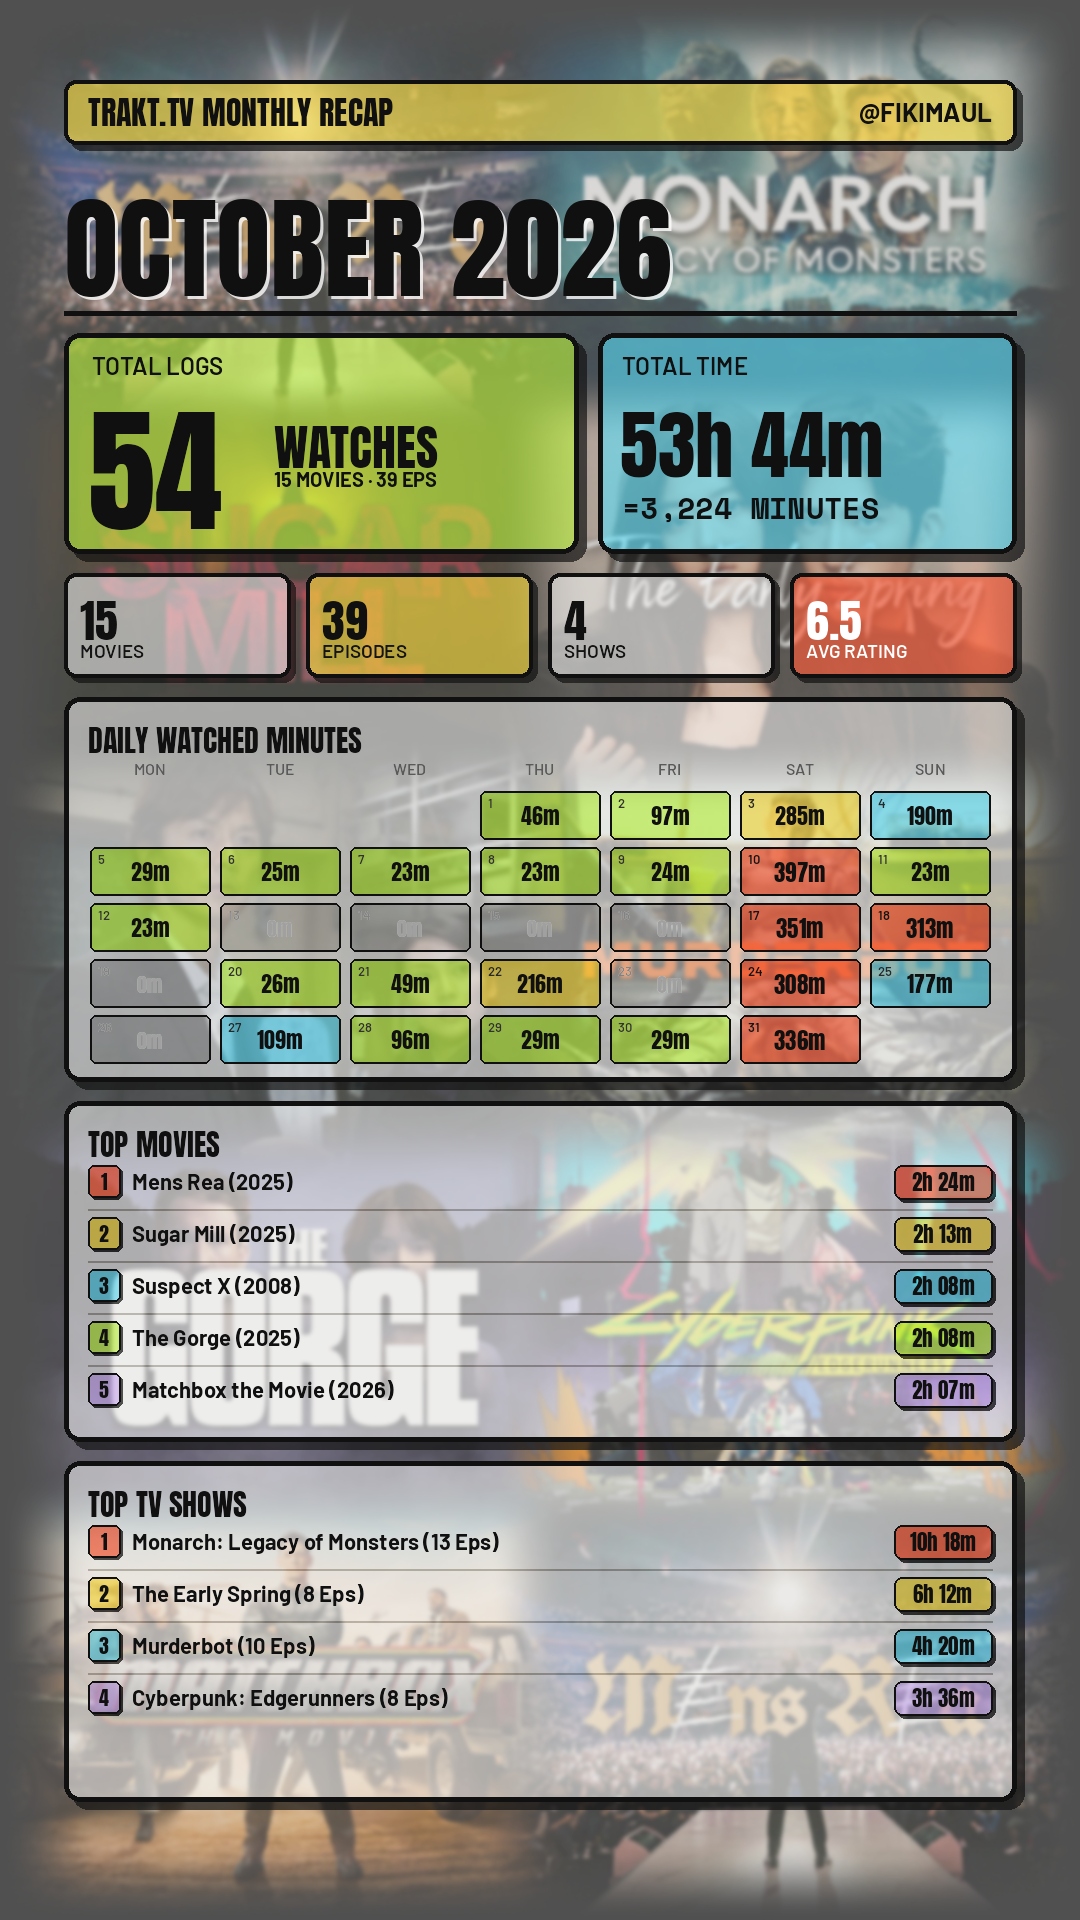
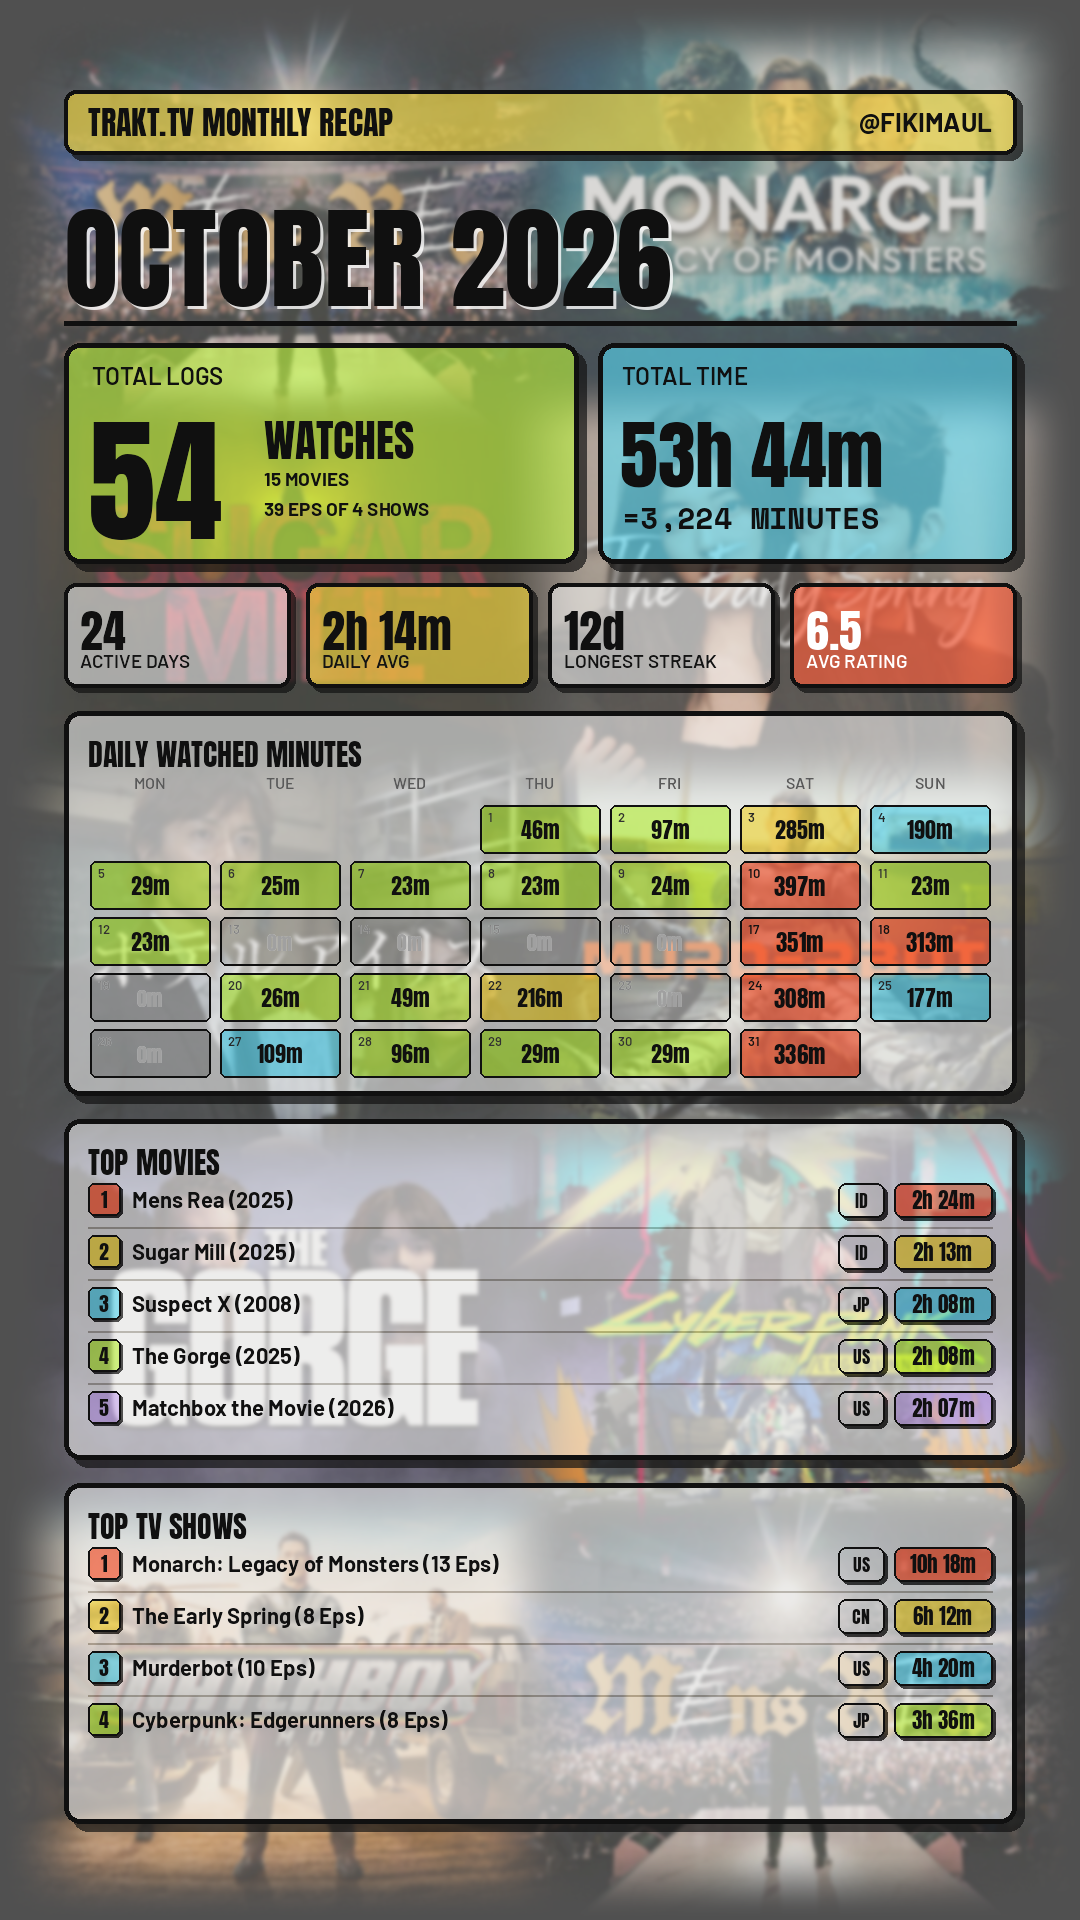
feat: balance layout margins, standardize rank colors, and add habit stats

Changed region(s): [[0.0611, 0.4062, 0.9472, 0.9062], [0.0611, 0.0312, 0.9472, 0.4062], [0.0611, 0.9375, 0.9472, 0.9688]]

diff --git a/recap.py b/recap.py
@@ -460,6 +460,7 @@ def gather(year, month=None, username=None):
     by_month_counts = Counter()
     by_month_minutes = Counter()
     by_month_days = defaultdict(set)
+    active_dates = set()
 
     for m in movies:
         mid = str(m["movie"]["ids"].get("tmdb"))
@@ -472,6 +473,7 @@ def gather(year, month=None, username=None):
         by_month_counts[dt_m.month] += 1
         by_month_minutes[dt_m.month] += rt
         by_month_days[dt_m.month].add(d)
+        active_dates.add(dt_m.date())
 
     for e in eps:
         sid = str(e["show"]["ids"].get("tmdb"))
@@ -488,6 +490,21 @@ def gather(year, month=None, username=None):
         by_month_counts[dt_e.month] += 1
         by_month_minutes[dt_e.month] += rt
         by_month_days[dt_e.month].add(d)
+        active_dates.add(dt_e.date())
+
+    # Calculate longest watch streak in consecutive days
+    sorted_dates = sorted(active_dates)
+    longest_streak = 0
+    cur_streak = 0
+    prev_date = None
+    for d_val in sorted_dates:
+        if prev_date is None or d_val == prev_date + timedelta(days=1):
+            cur_streak += 1
+        else:
+            cur_streak = 1
+        if cur_streak > longest_streak:
+            longest_streak = cur_streak
+        prev_date = d_val
 
     # Average rating
     all_month_ratings = [r["rating"] for r in rate if "rating" in r]
@@ -558,7 +575,8 @@ def gather(year, month=None, username=None):
         "movies": len(movies),
         "episodes": len(eps),
         "shows": len(shows_eps),
-        "active_days": len(by_day_counts),
+        "active_days": len(active_dates),
+        "longest_streak": longest_streak,
         "top_shows": top_shows,
         "top_movies": top_movies,
         "top_genres": top_genres,
@@ -933,13 +951,16 @@ def render(data):
     M = 64
     BW = W - 2 * M  # 952 px
 
-    # 1. TOP BAR: Header Strip
-    t_box = [M, 80, W - M, 144]
+    is_yearly = data.get("is_yearly", False)
+
+    # 1. TOP BAR: Header Strip (Equalized top and bottom margins for both modes)
+    top_y = 68 if is_yearly else 90
+    header_h = 64
+    t_box = [M, top_y, W - M, top_y + header_h]
     draw_brutal_box(d, t_box, fill=YELLOW_TRANSPARENT, outline=BLACK, width=4,
                     shadow_offset=(6, 6), radius=12)
 
     box_center_y = (t_box[1] + t_box[3]) / 2
-    is_yearly = data.get("is_yearly", False)
     top_label = "TRAKT.TV YEARLY RECAP" if is_yearly else "TRAKT.TV MONTHLY RECAP"
     d.text((M + 24, box_center_y), top_label,
            font=get_font("impact", 32), fill=BLACK, anchor="lm")
@@ -954,7 +975,7 @@ def render(data):
         title_text = f"YEAR {data['year']}"
     else:
         title_text = f"{MONTH_NAMES.get(data['month'], 'MONTH')} {data['year']}"
-    title_y = 164
+    title_y = t_box[3] + 20
     d.text((M + 3, title_y + 3), title_text, font=get_font("impact", 112), fill=(255, 255, 255, 200))
     d.text((M, title_y), title_text, font=get_font("impact", 112), fill=BLACK)
 
@@ -979,10 +1000,13 @@ def render(data):
     f_tot = get_font("impact", 136 if len(tot_str) <= 2 else (124 if len(tot_str) == 3 else 108))
     d.text((M + 24, hero_y + 36), tot_str, font=f_tot, fill=BLACK)
     bbox_tot = d.textbbox((M + 24, hero_y + 36), tot_str, font=f_tot)
-    watches_x = max(M + 210, bbox_tot[2] + 16)
-    d.text((watches_x, hero_y + 78), "WATCHES", font=get_font("impact", 48), fill=BLACK)
-    d.text((watches_x, hero_y + 134), f"{data['movies']} MOVIES · {data['episodes']} EPS",
-           font=get_font("arialb", 20), fill=BLACK)
+    watches_x = max(M + 200, bbox_tot[2] + 16)
+    d.text((watches_x, hero_y + 64), "WATCHES", font=get_font("impact", 44), fill=BLACK)
+    f_sub = get_font("arialb", 19)
+    m_label = f"{data['movies']} {'MOVIE' if data['movies'] == 1 else 'MOVIES'}"
+    s_label = f"{data['episodes']} EPS OF {data['shows']} {'SHOW' if data['shows'] == 1 else 'SHOWS'}"
+    d.text((watches_x, hero_y + 124), m_label, font=f_sub, fill=BLACK)
+    d.text((watches_x, hero_y + 154), s_label, font=f_sub, fill=BLACK)
 
     # Right Box: TOTAL TIME
     box_right = [M + w_left + gap, hero_y, W - M, hero_y + hero_h]
@@ -998,15 +1022,28 @@ def render(data):
     d.text((box_right[0] + 24, hero_y + 152), f"={tot_min:,} MINUTES",
            font=get_font("mono", 30), fill=BLACK)
 
-    # 4. STAT CARDS GRID (Movies, Episodes, Shows, Avg Rating)
+    # 4. STAT CARDS GRID (Active Days, Daily Avg, Longest Streak, Avg Rating)
     grid_y = hero_y + hero_h + 20  # 564
     grid_h = 104
     col_w = (BW - 3 * 16) // 4
+
+    active_days = data.get("active_days", 0)
+    daily_min = data["total_minutes"] // active_days if active_days > 0 else 0
+    if daily_min >= 60:
+        h = daily_min // 60
+        m = daily_min % 60
+        daily_avg_str = f"{h}h {m}m" if m > 0 else f"{h}h"
+    else:
+        daily_avg_str = f"{daily_min}m"
+
+    streak_str = f"{data.get('longest_streak', 0)}d"
+    rating_str = f"{data['avg_rating']:.1f}" if data.get("avg_rating") else "0.0"
+
     stats_data = [
-        (str(data["movies"]), "MOVIES", WHITE_TRANSPARENT),
-        (str(data["episodes"]), "EPISODES", YELLOW_TRANSPARENT),
-        (str(data["shows"]), "SHOWS", WHITE_TRANSPARENT),
-        (f"{data['avg_rating']:.1f}" if data['avg_rating'] else "0.0", "AVG RATING", CORAL_TRANSPARENT),
+        (str(active_days), "ACTIVE DAYS", WHITE_TRANSPARENT),
+        (daily_avg_str, "DAILY AVG", YELLOW_TRANSPARENT),
+        (streak_str, "LONGEST STREAK", WHITE_TRANSPARENT),
+        (rating_str, "AVG RATING", CORAL_TRANSPARENT),
     ]
     for i, (val, label, bg_col) in enumerate(stats_data):
         cx0 = M + i * (col_w + 16)
@@ -1027,20 +1064,20 @@ def render(data):
     max_label_w = c_badge_x - (M + 68) - 12
 
     if is_yearly:
-        strip_y = grid_y + grid_h + 24   # 692
+        strip_y = grid_y + grid_h + 24
         strip_h = 66
-        mov_y = strip_y + strip_h + 24   # 782
+        mov_y = strip_y + strip_h + 24
         mov_h = 340
-        shows_y = mov_y + mov_h + 24     # 1146
+        shows_y = mov_y + mov_h + 24
         shows_h = 340
-        bottom_y = shows_y + shows_h + 24 # 1510
+        bottom_y = shows_y + shows_h + 24
         bottom_h = 340
     else:
-        chart_box_y = grid_y + grid_h + 20  # 688
+        chart_box_y = grid_y + grid_h + 24
         chart_box_h = 384
-        mov_y = chart_box_y + chart_box_h + 20  # 1092
+        mov_y = chart_box_y + chart_box_h + 24
         mov_h = 340
-        shows_y = mov_y + mov_h + 20  # 1452
+        shows_y = mov_y + mov_h + 24
         shows_h = 340
 
     # 5. DAILY WATCHED MINUTES (Monthly Mode Only)
@@ -1232,7 +1269,7 @@ def render(data):
     top_shows = data["top_shows"][:5]
     row_start_y = shows_y + 64
     row_height = 52
-    colors = [CORAL_TRANSPARENT, YELLOW_TRANSPARENT, CYAN_TRANSPARENT, PURPLE_TRANSPARENT, LIME_TRANSPARENT]
+    colors = m_colors
 
     for i in range(5):
         ry = row_start_y + i * row_height
@@ -1398,6 +1435,7 @@ def main():
     print(f"Total Watches  : {data['total']} ({data['movies']} Movies, {data['episodes']} Episodes)")
     print(f"Total Time     : {data['total_minutes'] // 60}h {data['total_minutes'] % 60}m ({data['total_minutes']:,} minutes)")
     print(f"Active Days    : {data['active_days']} days")
+    print(f"Longest Streak : {data['longest_streak']} days")
     if data["top_movies"]:
         print(f"Top 1 Movie    : {data['top_movies'][0][0]} ({data['top_movies'][0][1]}m)")
     if data["top_shows"]:

diff --git a/README.md b/README.md
@@ -8,7 +8,7 @@ Supports both **Monthly Recap** mode (with an interactive daily watch minutes ca
 
 ## Sample Reports
 
-| Monthly Recap (`--period=2026-10`) | Yearly Recap (`--period=2026`) |
+| Monthly Recap (`--period=2026-10`) | Yearly Recap (`--period=2025`) |
 | :---: | :---: |
 | <img src="assets/sample-monthly.png" alt="Monthly Recap Sample" width="400" /> | <img src="assets/sample-yearly.png" alt="Yearly Recap Sample" width="400" /> |
 
@@ -41,7 +41,7 @@ Supports both **Monthly Recap** mode (with an interactive daily watch minutes ca
 ## Directory Structure
 
 ```text
-trakt-export/
+trakt-recap/
 ├── .env.example              # Environment variable configuration template
 ├── .gitignore                # Git ignore rules for data, cache, and secrets
 ├── README.md                 # Project documentation
@@ -76,8 +76,8 @@ trakt-export/
 
 ### 2. Clone Repository & Install Dependencies
 ```bash
-git clone <your-repo-url>
-cd trakt-export-fikimaul
+git clone https://github.com/fikimaul/trakt-recap.git
+cd trakt-recap
 
 # Create virtual environment (optional but recommended)
 python -m venv venv
